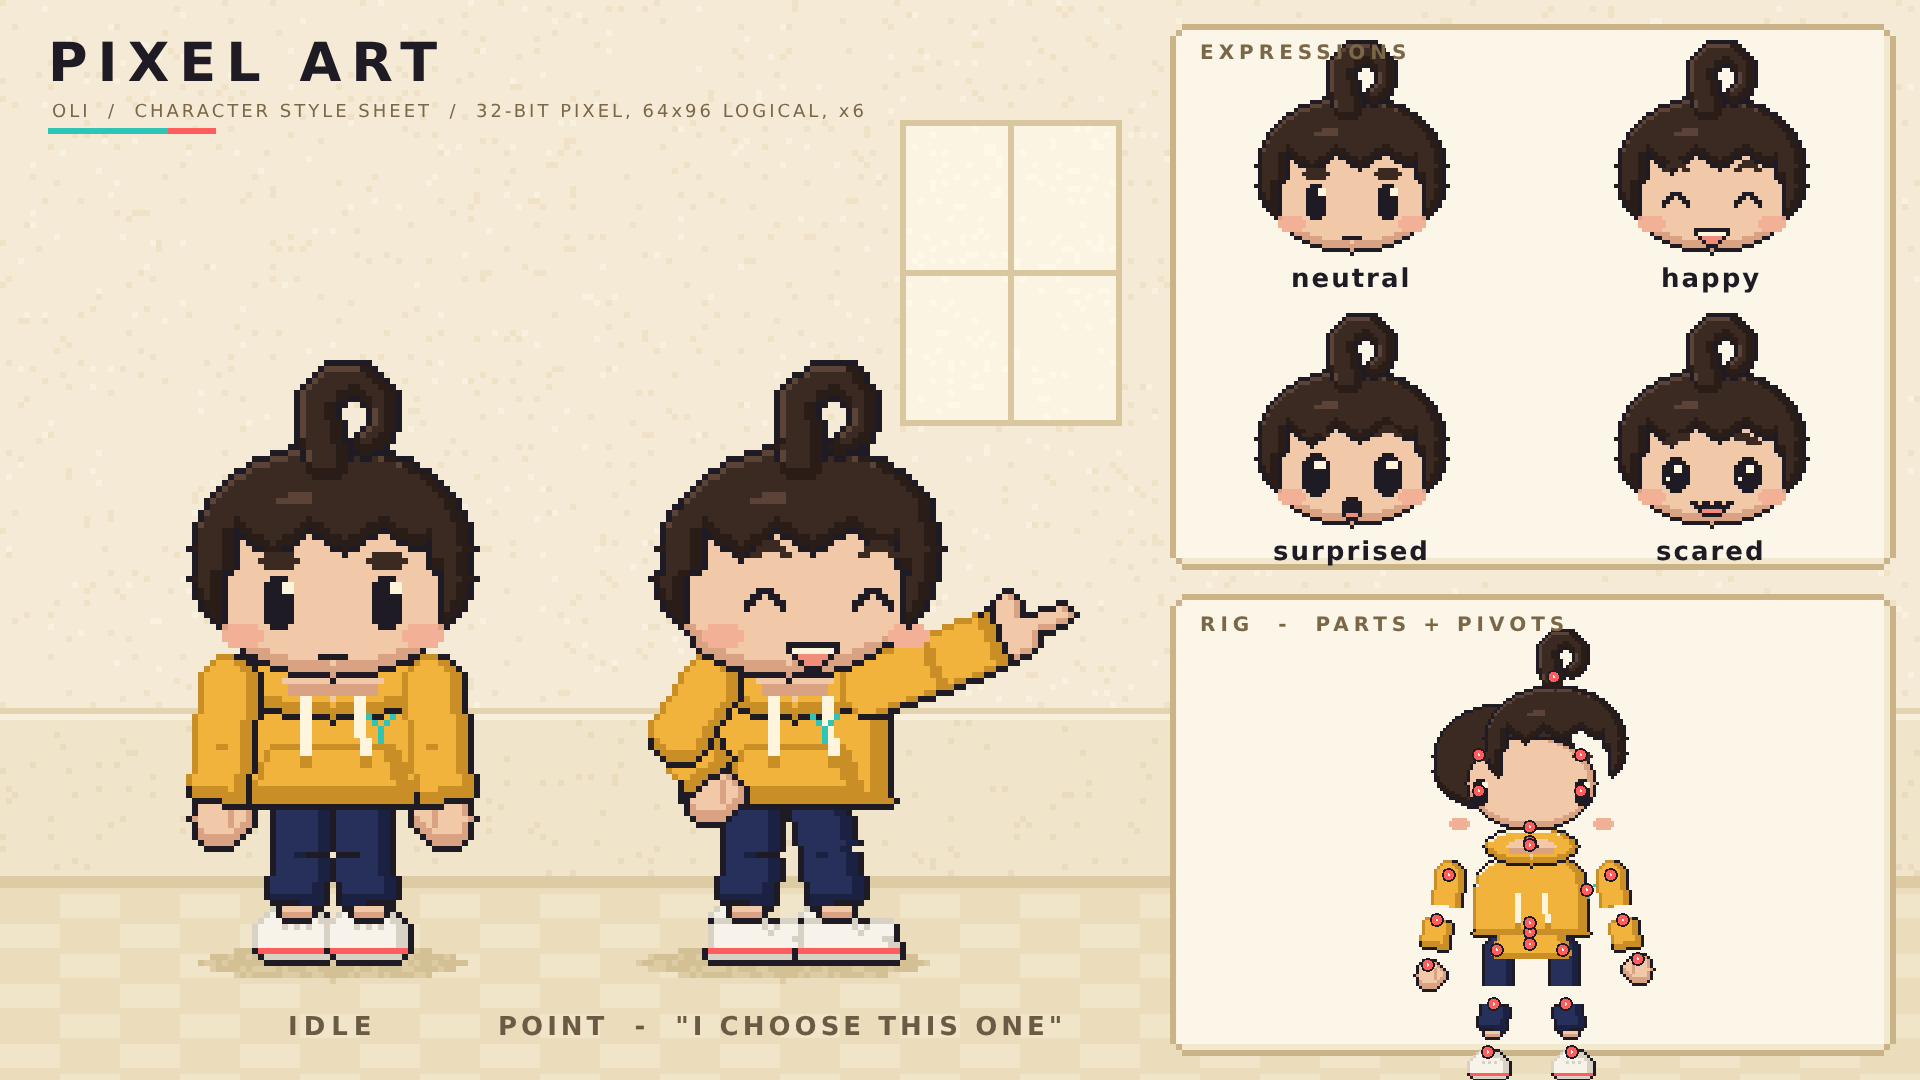
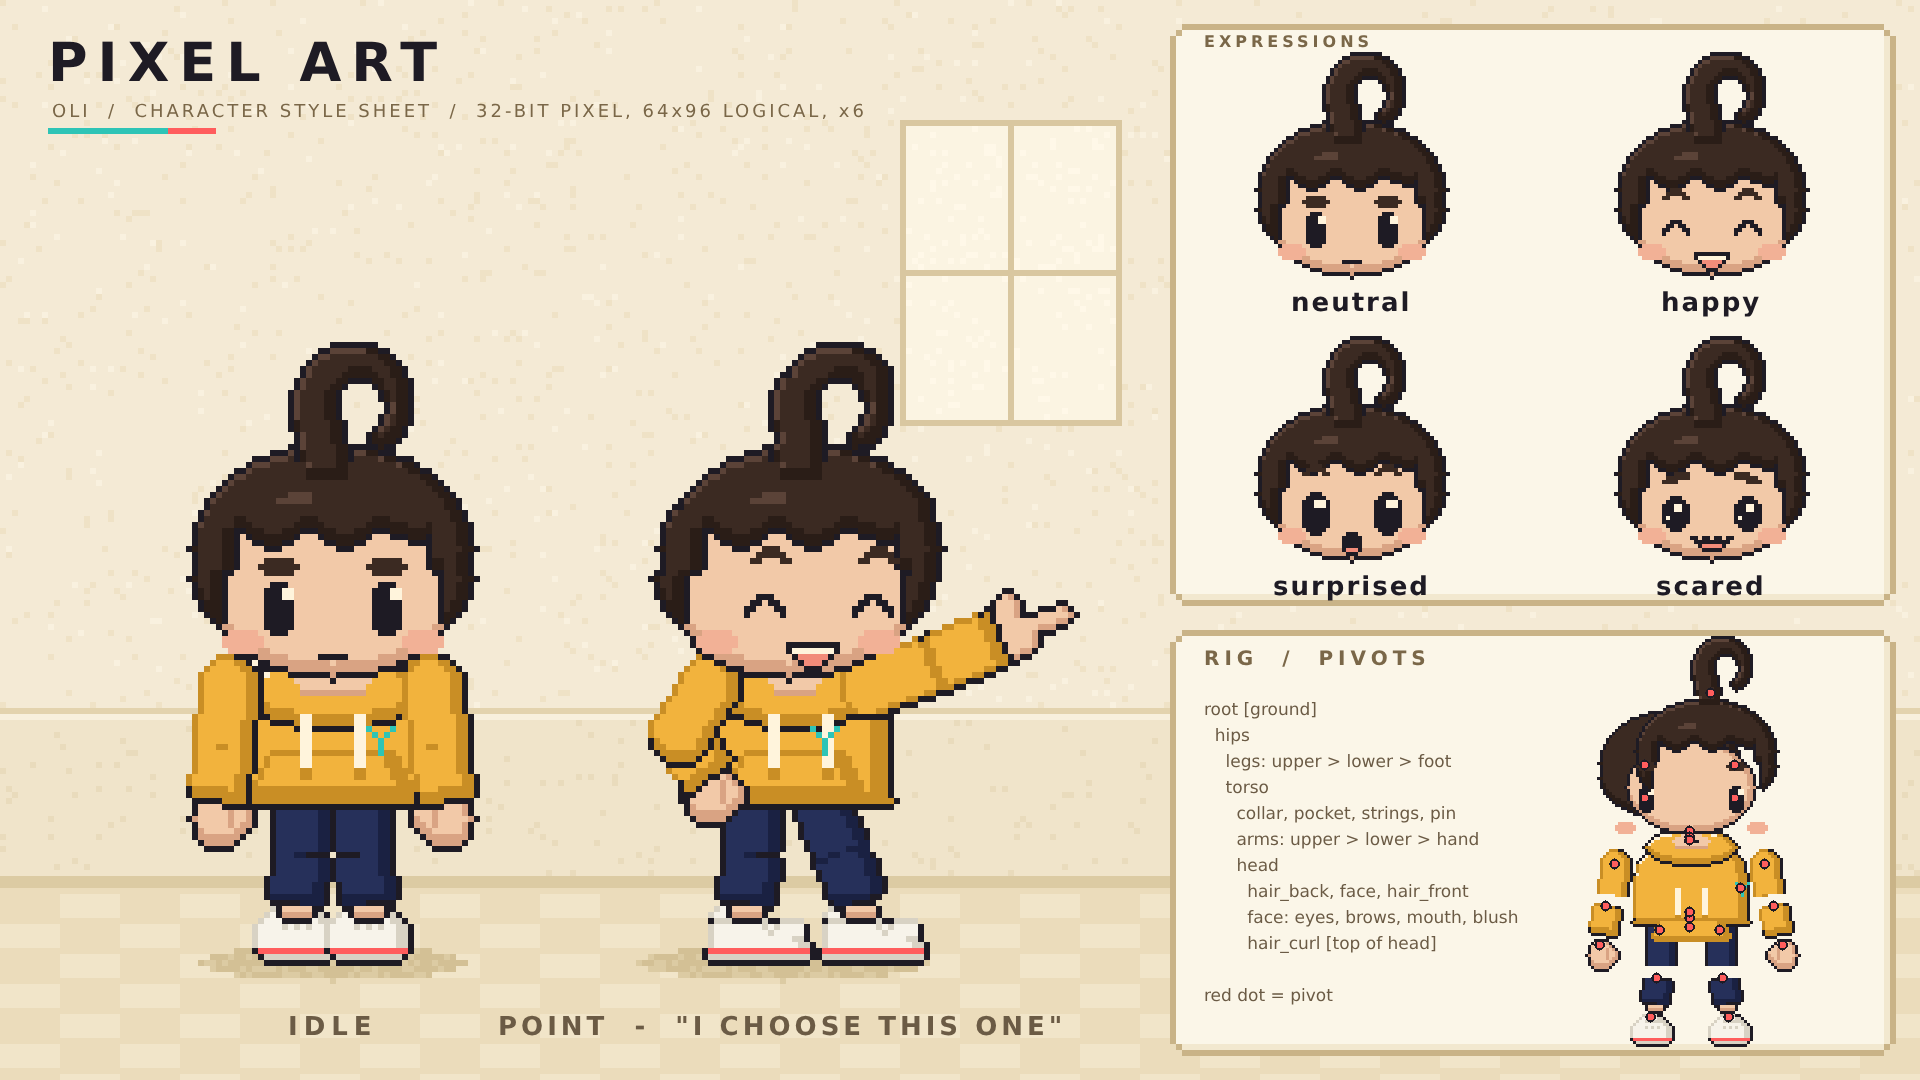
Add pixel art character style sheet (Oli)
Claude-Session: https://claude.ai/code/session_014Lkf6Yhz1EryPLnDh7J4BE

diff --git a/pilot/characters/pixel/character.js b/pilot/characters/pixel/character.js
@@ -109,14 +109,14 @@ function fringeY(x) {
   const ax = Math.abs(x);
   if (ax >= 19) return -57;
   if (ax >= 17) return -66;
-  const t = (((x + 16) % 12) + 12) % 12, d = Math.abs(t - 6) / 6, amp = x < -4 ? 5 : x < 8 ? 4 : 3;
+  const t = (((x + 16) % 12) + 12) % 12, d = Math.abs(t - 6) / 6, amp = x < -4 ? 3 : x < 8 ? 3 : 2;
   return -73 + Math.round(amp * (1 - d));
 }
 function curlPath(ox) {
   const pts = [];
-  for (let i = 0; i <= 12; i++) { const t = i / 12; pts.push([ox - 1 - 1.5 * t, -83 - 8.5 * t, 3.6 - 0.3 * t]); }
-  const R = 5.6, cx = ox + 3, cy = -91.5;
-  for (let i = 0; i <= 40; i++) { const t = i / 40, a = t * 1.34 * Math.PI; pts.push([cx - R * Math.cos(a), cy - R * Math.sin(a), 3.3 - 1.4 * t]); }
+  for (let i = 0; i <= 12; i++) { const t = i / 12; pts.push([ox - 1 - 2.2 * t, -83 - 10 * t, 3.8 - 0.3 * t]); }
+  const R = 7, cx = ox + 4, cy = -93;
+  for (let i = 0; i <= 40; i++) { const t = i / 40, a = t * 1.3 * Math.PI; pts.push([cx - R * Math.cos(a), cy - R * Math.sin(a), 3.5 - 2.0 * t]); }
   return pts;
 }
 function headFrames(ox, k) {
@@ -138,7 +138,7 @@ function headFrames(ox, k) {
       if (v > 0.55 && v < 0.85 && x - ox < -3 && x - ox > -15 && y < -76) g.set(x, y, C.HAIRH);
     });
   }, o);
-  f.hair_curl = mk([ox - 8, -104, ox + 14, -82], [ox, -84], g => {
+  f.hair_curl = mk([ox - 9, -110, ox + 18, -82], [ox, -84], g => {
     for (const [x, y, r] of curlPath(ox)) ell(g, x, y, r, r, C.HAIR);
     shade(g, C.HAIR, C.HAIRS, { b: 2, r: 2 });
     rim(g, C.HAIR, C.HAIRH, true, true);
@@ -188,33 +188,32 @@ function torsoFrame(cx, hw) {
   }, { light: { [C.HOOD]: C.HOODS } });
 }
 function collarFrame(cx, rx) {
-  return mk([cx - rx - 1, -54, cx + rx + 1, -41], [cx, -48], g => {
-    ell(g, cx, -47, rx, 6, C.HOOD);
-    ell(g, cx, -47, rx - 7, 3, C.SKIN);
+  return mk([cx - rx - 1, -54, cx + rx + 1, -38], [cx, -48], g => {
+    ell(g, cx, -45, rx, 5.5, C.HOOD);
+    ell(g, cx, -47, rx - 9, 2.4, C.SKIN);
     shade(g, C.HOOD, C.HOODS, { b: 2, r: 2 });
-    for (let x = cx - rx + 8; x <= cx + rx - 8; x++) { g.set(x, -46, C.SKINS); g.set(x, -45, C.SKINS); }
+    for (let x = cx - rx + 10; x <= cx + rx - 10; x++) g.set(x, -45, C.SKINS);
     rim(g, C.HOOD, C.CREAM, true, false);
   }, { light: { [C.HOOD]: C.HOODS } });
 }
 function stringsFrame(cx) {
-  return mk([cx - 7, -44, cx + 7, -33], [cx, -44], g => {
+  return mk([cx - 7, -41, cx + 7, -31], [cx, -41], g => {
     [[cx - 5, 0], [cx + 4, 1]].forEach(([x, w]) => {
-      for (let y = -44; y <= -34; y++) { const xx = x + (y > -38 ? w - 0 : 0); g.set(xx, y, C.CREAM); g.set(xx + 1, y, C.CREAM); }
-      g.set(x + (w ? 1 : 0), -34, C.HOODS); g.set(x + 1 + (w ? 1 : 0), -34, C.HOODS);
-      g.set(x + (w ? 1 : 0), -33, C.HOODS); g.set(x + 1 + (w ? 1 : 0), -33, C.HOODS);
+      for (let y = -41; y <= -32; y++) { const xx = x; g.set(xx, y, C.CREAM); g.set(xx + 1, y, C.CREAM); }
+      g.set(x, -32, C.HOODS); g.set(x + 1, -32, C.HOODS); g.set(x, -31, C.HOODS); g.set(x + 1, -31, C.HOODS);
     });
   }, { noOutline: true });
 }
 function pocketFrame(cx, hw) {
-  return mk([cx - hw - 3, -35, cx + hw + 3, -29], [cx, -32], g => {
-    for (let y = -35; y <= -29; y++) { const half = hw + Math.round((y + 35) / 6 * 2); rect(g, cx - half, y, cx + half, y, C.HOOD); }
+  return mk([cx - hw - 3, -34, cx + hw + 3, -29], [cx, -32], g => {
+    for (let y = -34; y <= -29; y++) { const half = hw + Math.round((y + 34) / 5 * 2); rect(g, cx - half, y, cx + half, y, C.HOOD); }
     shade(g, C.HOOD, C.HOODS, { b: 1, r: 2 });
   }, { outlineColor: C.HOODS });
 }
 function pinFrame(cx) {
   const rows = ["#...#", ".#.#.", "..#..", "..#..", "..#.."];
-  return mk([cx - 2, -41, cx + 2, -37], [cx, -39], g => {
-    rows.forEach((r, j) => [...r].forEach((ch, i) => { if (ch === '#') g.set(cx - 2 + i, -41 + j, C.TEAL); }));
+  return mk([cx - 2, -39, cx + 2, -35], [cx, -37], g => {
+    rows.forEach((r, j) => [...r].forEach((ch, i) => { if (ch === '#') g.set(cx - 2 + i, -39 + j, C.TEAL); }));
   }, { noOutline: true });
 }
 
@@ -253,19 +252,19 @@ function handFrame(s, kind) {
   }, { next: null });
 }
 function thigh(s, kind) {
-  const nx = kind === 'down' ? [0, 12] : [3 * s, 12], L = Math.hypot(...nx), ux = nx[0] / L, uy = nx[1] / L;
+  const nx = kind === 'down' ? [0, 12] : [5 * s, 12], L = Math.hypot(...nx), ux = nx[0] / L, uy = nx[1] / L;
   return mk([-8, -6, 12, 18], [0, 0], g => {
     cap(g, 0, 0, nx[0], nx[1], 4.5, C.PANT, { t1: L - 0.01 });
     shade(g, C.PANT, C.PANTS, { r: 2 });
   }, { next: nx, excl: (x, y) => x * ux + y * uy >= L - 0.01 });
 }
-function shin(s) {
+function shin(s, dx = 1) {
   return mk([-8, -2, 8, 12], [0, 0], g => {
-    cap(g, 0, 0, s, 8, 4.5, C.PANT, { t0: 0, t1: 8.05 });
+    cap(g, 0, 0, dx * s, 8, 4.5, C.PANT, { t0: 0, t1: 8.05 });
     shade(g, C.PANT, C.PANTS, { r: 2 });
     g.each((x, y, c) => { if (c && y >= 7) g.set(x, y, C.PANTS); });
-    for (let y = 9; y <= 10; y++) rect(g, s - 2, y, s + 2, y, y === 10 ? C.SKINS : C.SKIN);
-  }, { next: [s, 9], excl: (x, y) => y <= -1 });
+    for (let y = 9; y <= 10; y++) rect(g, dx * s - 2, y, dx * s + 2, y, y === 10 ? C.SKINS : C.SKIN);
+  }, { next: [dx * s, 9], excl: (x, y) => y <= -1 });
 }
 function shoe(kind) {
   const front = [[-3, 3], [-4, 4], [-5, 5], [-6, 6], [-6, 6], [-6, 6], [-6, 6], [-6, 6], [-5, 5]];
@@ -299,7 +298,7 @@ function lib() {
     F['arm' + side + '_lower'] = { down: armLower(s, 'down'), bent: armLower(s, 'bent'), point: armLower(s, 'point') };
     F['hand' + side] = { down: handFrame(s, 'down'), point: handFrame(s, 'point') };
     F['leg' + side + '_upper'] = { down: thigh(s, 'down'), out: thigh(s, 'out') };
-    F['leg' + side + '_lower'] = { down: shin(s) };
+    F['leg' + side + '_lower'] = { down: shin(s), out: shin(s, 3) };
     F['foot' + side] = { front: shoe('front'), q3: shoe('side') };
   }
   return (LIB = F);
@@ -325,8 +324,8 @@ export const PART_NAMES = NODES.map(n => n[0]);
 
 const tiltDx = y => Math.round((y + 48) * -0.09);
 const faceBase = {
-  front: { eyeL: [-9, -60], eyeR: [9, -60], browL: [-9, -67], browR: [9, -67], mouth: [0, -51], blushL: [-15, -54], blushR: [15, -54] },
-  q3: { eyeL: [-5, -60], eyeR: [13, -60], browL: [-5, -67], browR: [13, -67], mouth: [4, -51], blushL: [-12, -54], blushR: [19, -54] },
+  front: { eyeL: [-9, -59], eyeR: [9, -59], browL: [-9, -66], browR: [9, -66], mouth: [0, -51], blushL: [-15, -53], blushR: [15, -53] },
+  q3: { eyeL: [-5, -59], eyeR: [13, -59], browL: [-5, -66], browR: [13, -66], mouth: [4, -51], blushL: [-12, -53], blushR: [15, -53] },
 };
 function faceAt(kind, tilt) {
   const out = {};
@@ -350,7 +349,7 @@ export const POSES = {
       head: { f: 'tilt' }, hair_back: { f: 'tilt' }, hair_front: { f: 'tilt' }, hair_curl: { f: 'tilt' },
       armR_upper: { f: 'raise', at: [15, -46] }, armR_lower: { f: 'point' }, handR: { f: 'point' },
       armL_upper: { f: 'bent', at: [-12, -46] }, armL_lower: { f: 'bent' }, handL: { f: 'down' },
-      legR_upper: { f: 'out', at: [5, -30] },
+      legR_upper: { f: 'out', at: [5, -30] }, legR_lower: { f: 'out' },
       footL: { f: 'q3' }, footR: { f: 'q3' },
     },
     face: faceAt('q3', true),
@@ -364,11 +363,11 @@ export const EXPRESSIONS = {
 };
 // pulled-apart offsets (relative to parent) used by the exploded rig view
 const EXPLODE = {
-  torso: [0, -3], head: [0, -14], collar: [0, -9], pocket: [0, 9], strings: [0, 4], pin: [11, -2],
-  hair_back: [-9, -3], hair_front: [8, -9], hair_curl: [8, -14],
-  eyeL: [-8, 0], eyeR: [8, 0], browL: [-8, -5], browR: [8, -5], mouth: [0, 9], blushL: [-9, 5], blushR: [9, 5],
-  armL_upper: [-10, 0], armL_lower: [-3, 5], handL: [-2, 6], armR_upper: [10, 0], armR_lower: [3, 5], handR: [4, 4],
-  legL_upper: [-6, 6], legL_lower: [-1, 6], footL: [-1, 7], legR_upper: [6, 6], legR_lower: [1, 6], footR: [1, 7],
+  torso: [0, -2], head: [0, -9], collar: [0, -7], pocket: [0, 7], strings: [0, 3], pin: [9, -1],
+  hair_back: [-7, -2], hair_front: [5, -6], hair_curl: [7, -10],
+  eyeL: [-6, 0], eyeR: [6, 0], browL: [-6, -4], browR: [6, -4], mouth: [0, 6], blushL: [-7, 4], blushR: [7, 4],
+  armL_upper: [-8, 0], armL_lower: [-2, 4], handL: [-1, 4], armR_upper: [8, 0], armR_lower: [2, 4], handR: [2, 4],
+  legL_upper: [-5, 4], legL_lower: [-1, 4], footL: [-1, 4], legR_upper: [5, 4], legR_lower: [1, 4], footR: [1, 4],
 };
 
 // ---------------------------------------------------------------- public API

diff --git a/pilot/characters/pixel/index.html b/pilot/characters/pixel/index.html
@@ -46,7 +46,7 @@ function panel(x0, y0, x1, y1) {
     px(x, y, border ? '#C9B387' : (y === y1 - 1 || x === x1 - 1) ? '#F2E8CF' : '#FBF6E8');
   }
 }
-panel(195, 4, 315, 94); panel(195, 99, 315, 175);
+panel(195, 4, 315, 100); panel(195, 105, 315, 175);
 const bg = new Sprite(Texture.from(bgc)); bg.texture.source.scaleMode = 'nearest'; bg.scale.set(6);
 app.stage.addChild(bg);
 
@@ -61,7 +61,7 @@ point.scale.set(6); point.position.set(780, 960); art.addChild(point);
 
 // ------------------------------------------------ 2x2 expression heads (x4)
 const names = ['neutral', 'happy', 'surprised', 'scared'];
-const cells = [[1350, 248], [1710, 248], [1350, 521], [1710, 521]];
+const cells = [[1350, 272], [1710, 272], [1350, 556], [1710, 556]];
 names.forEach((n, i) => {
   const c = createCharacter(app, { pose: 'idle', expression: n });
   const head = c.parts.head; head.removeFromParent();
@@ -73,14 +73,13 @@ names.forEach((n, i) => {
 // ------------------------------------------------ exploded rig (x3) with pivot dots
 const rig = createCharacter(app, { pose: 'idle', expression: 'neutral' });
 explode(rig, 1);
-rig.scale.set(3); rig.position.set(1530, 1022); art.addChild(rig);
+rig.scale.set(3); rig.position.set(1690, 1008); art.addChild(rig);
 const DOTS = ['hips', 'torso', 'head', 'hair_curl', 'collar', 'armL_upper', 'armL_lower', 'handL', 'armR_upper', 'armR_lower', 'handR',
   'legL_upper', 'legL_lower', 'footL', 'legR_upper', 'legR_lower', 'footR', 'eyeL', 'eyeR', 'browL', 'browR', 'mouth', 'pocket', 'pin'];
 const dots = new Graphics();
 for (const n of DOTS) {
   const p = rig.parts[n].getGlobalPosition(); const x = Math.round(p.x), y = Math.round(p.y);
-  dots.circle(x, y, 6).fill(0xFF5D5D).stroke({ width: 2, color: 0x1E1B24 });
-  dots.circle(x, y, 1.5).fill(0xFFF4DC);
+  dots.circle(x, y, 4.5).fill(0xFF5D5D).stroke({ width: 2, color: 0x1E1B24 });
 }
 ui.addChild(dots);
 
@@ -93,9 +92,11 @@ const sub = label('OLI  /  CHARACTER STYLE SHEET  /  32-BIT PIXEL, 64x96 LOGICAL
 const bar = new Graphics().rect(48, 128, 120, 6).fill(0x2EC4B6).rect(168, 128, 48, 6).fill(0xFF5D5D); ui.addChild(bar);
 const l1 = label('IDLE', 26, 0x6B5B45, 6); l1.anchor.set(0.5, 0); l1.position.set(330, 1010); ui.addChild(l1);
 const l2 = label('POINT  -  "I CHOOSE THIS ONE"', 26, 0x6B5B45, 4); l2.anchor.set(0.5, 0); l2.position.set(780, 1010); ui.addChild(l2);
-const l3 = label('EXPRESSIONS', 20, 0x7A6748, 5); l3.position.set(1200, 40); ui.addChild(l3);
-const l4 = label('RIG  -  PARTS + PIVOTS', 20, 0x7A6748, 5); l4.position.set(1200, 612); ui.addChild(l4);
+const l3 = label('EXPRESSIONS', 16, 0x7A6748, 4); l3.position.set(1204, 32); ui.addChild(l3);
+const l4 = label('RIG  /  PIVOTS', 20, 0x7A6748, 5); l4.position.set(1204, 646); ui.addChild(l4);
 
+const legend = label('root [ground]\n  hips\n    legs: upper > lower > foot\n    torso\n      collar, pocket, strings, pin\n      arms: upper > lower > hand\n      head\n        hair_back, face, hair_front\n        face: eyes, brows, mouth, blush\n        hair_curl [top of head]\n\nred dot = pivot', 17, 0x6B5B45, 0, 'normal');
+legend.style.lineHeight = 26; legend.position.set(1204, 696); ui.addChild(legend);
 app.render();
 window.__READY = true;
 </script></body></html>
